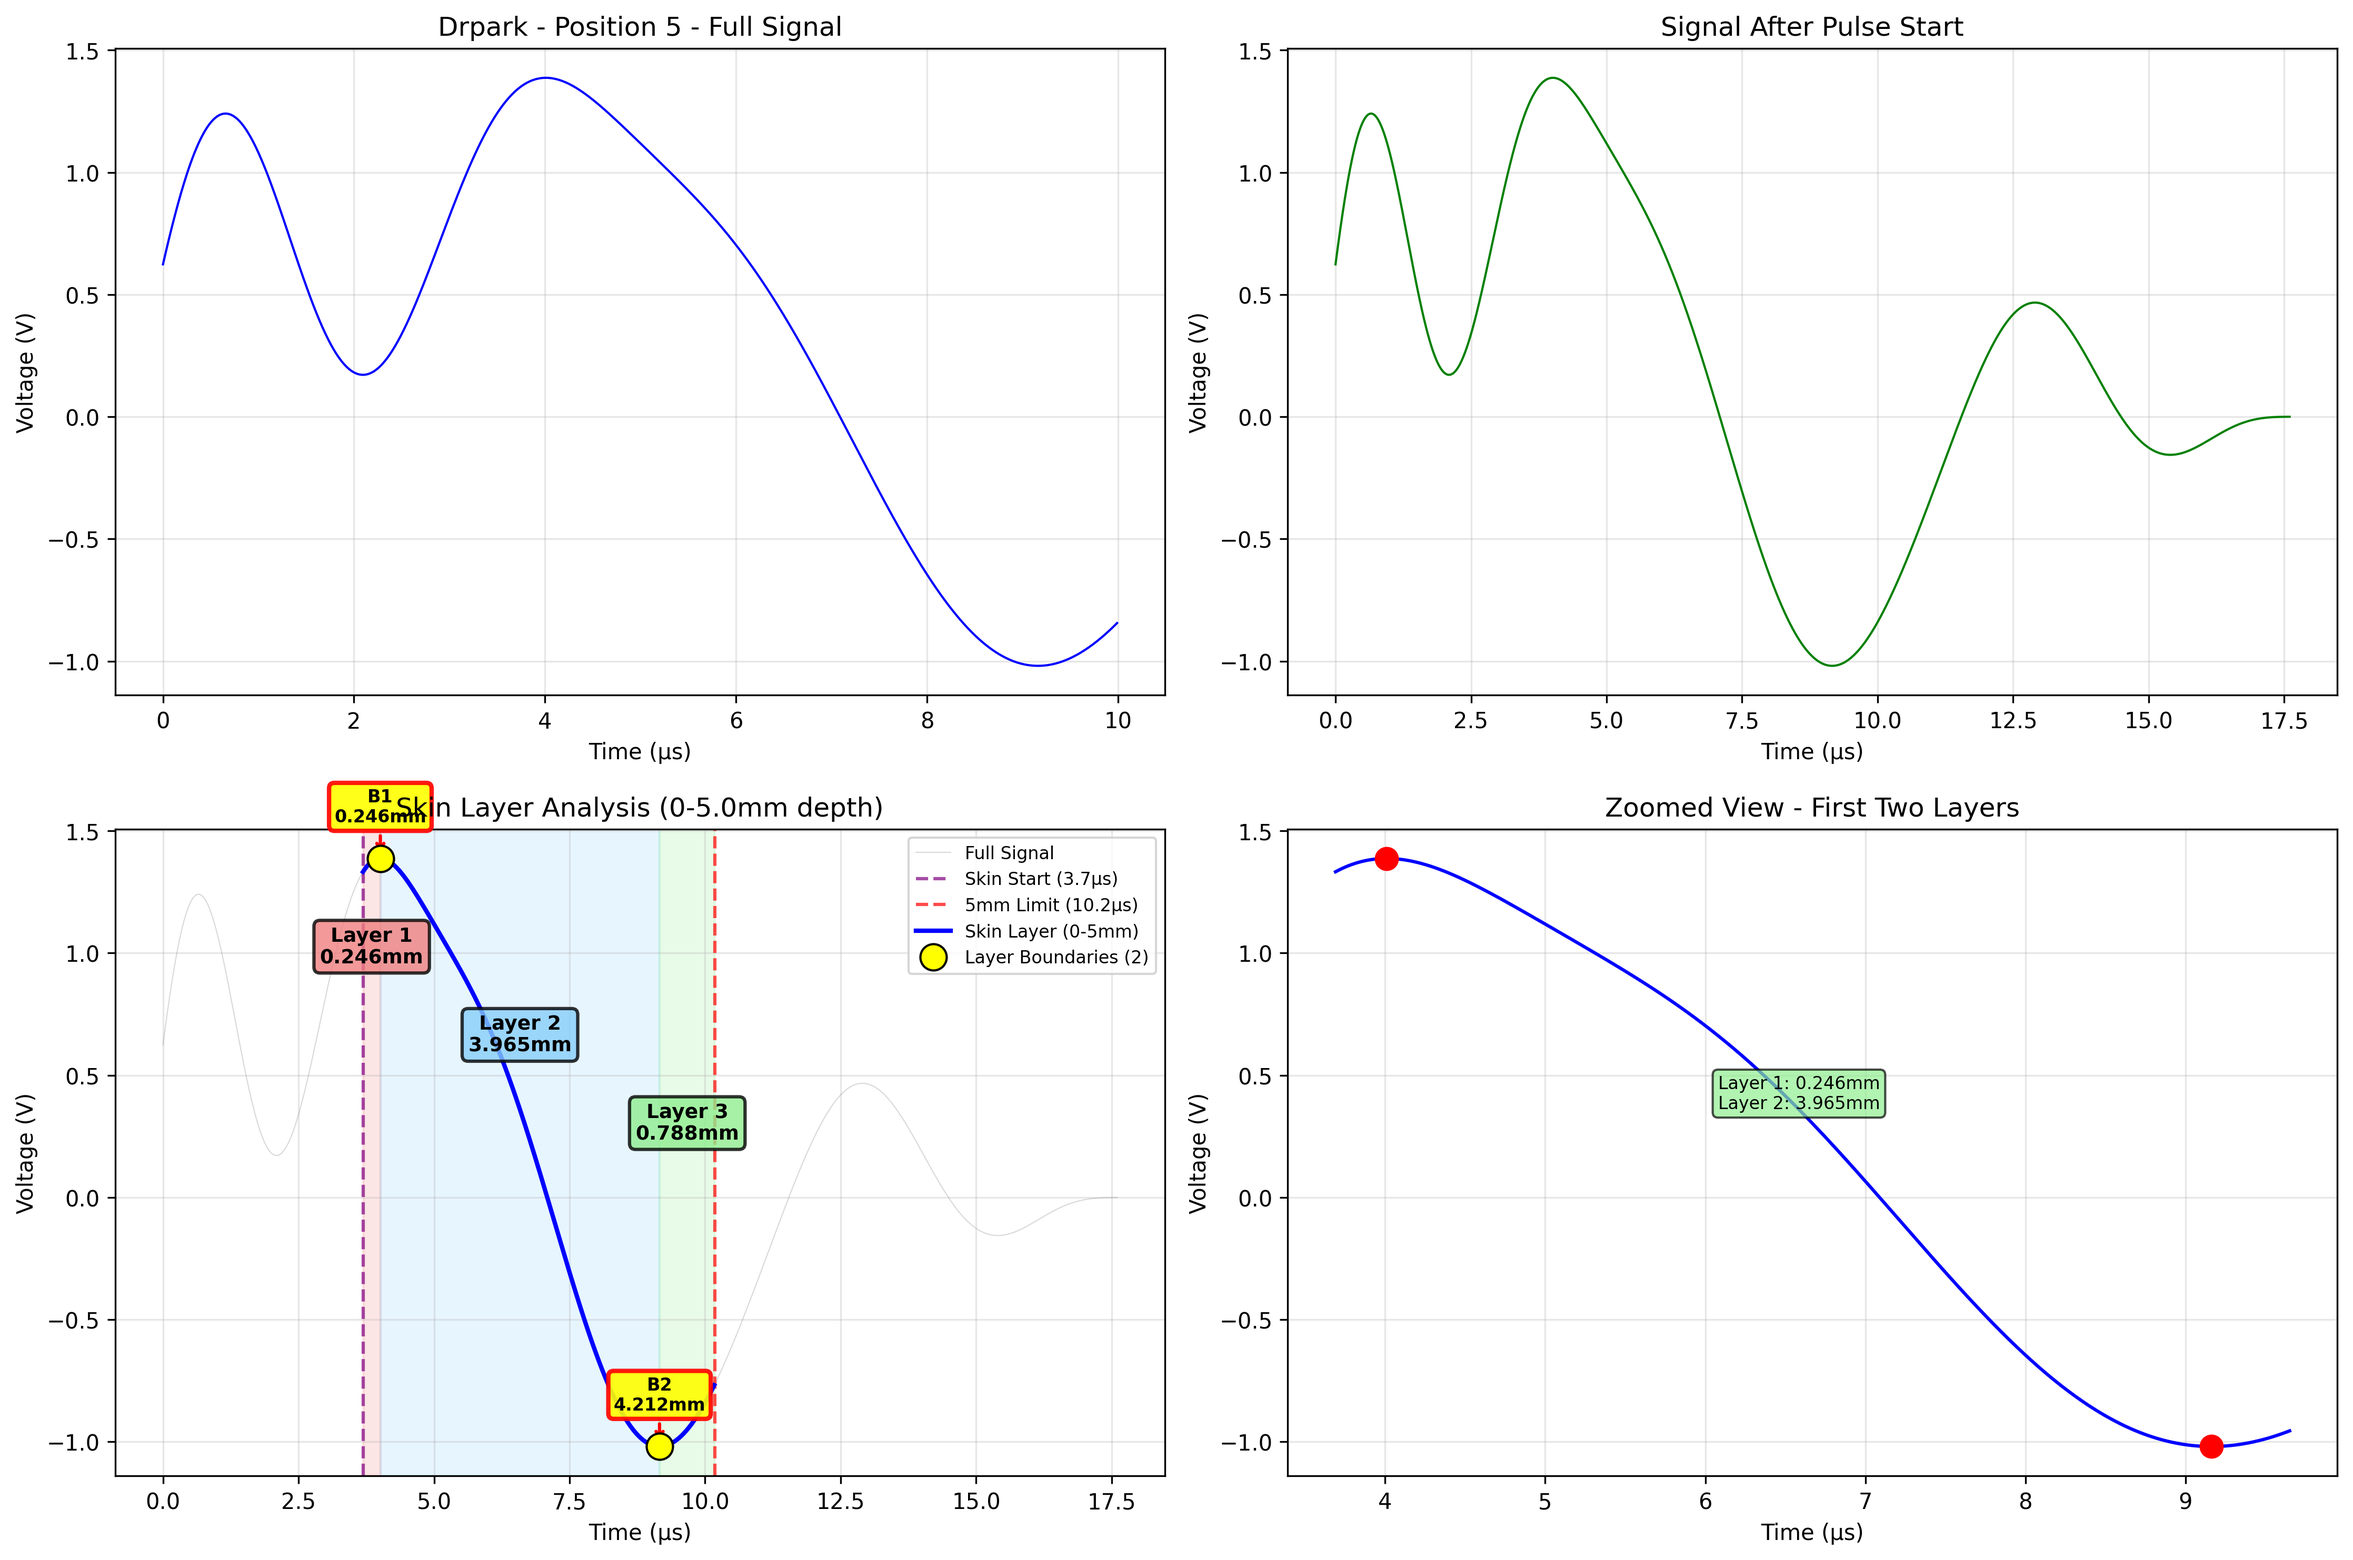
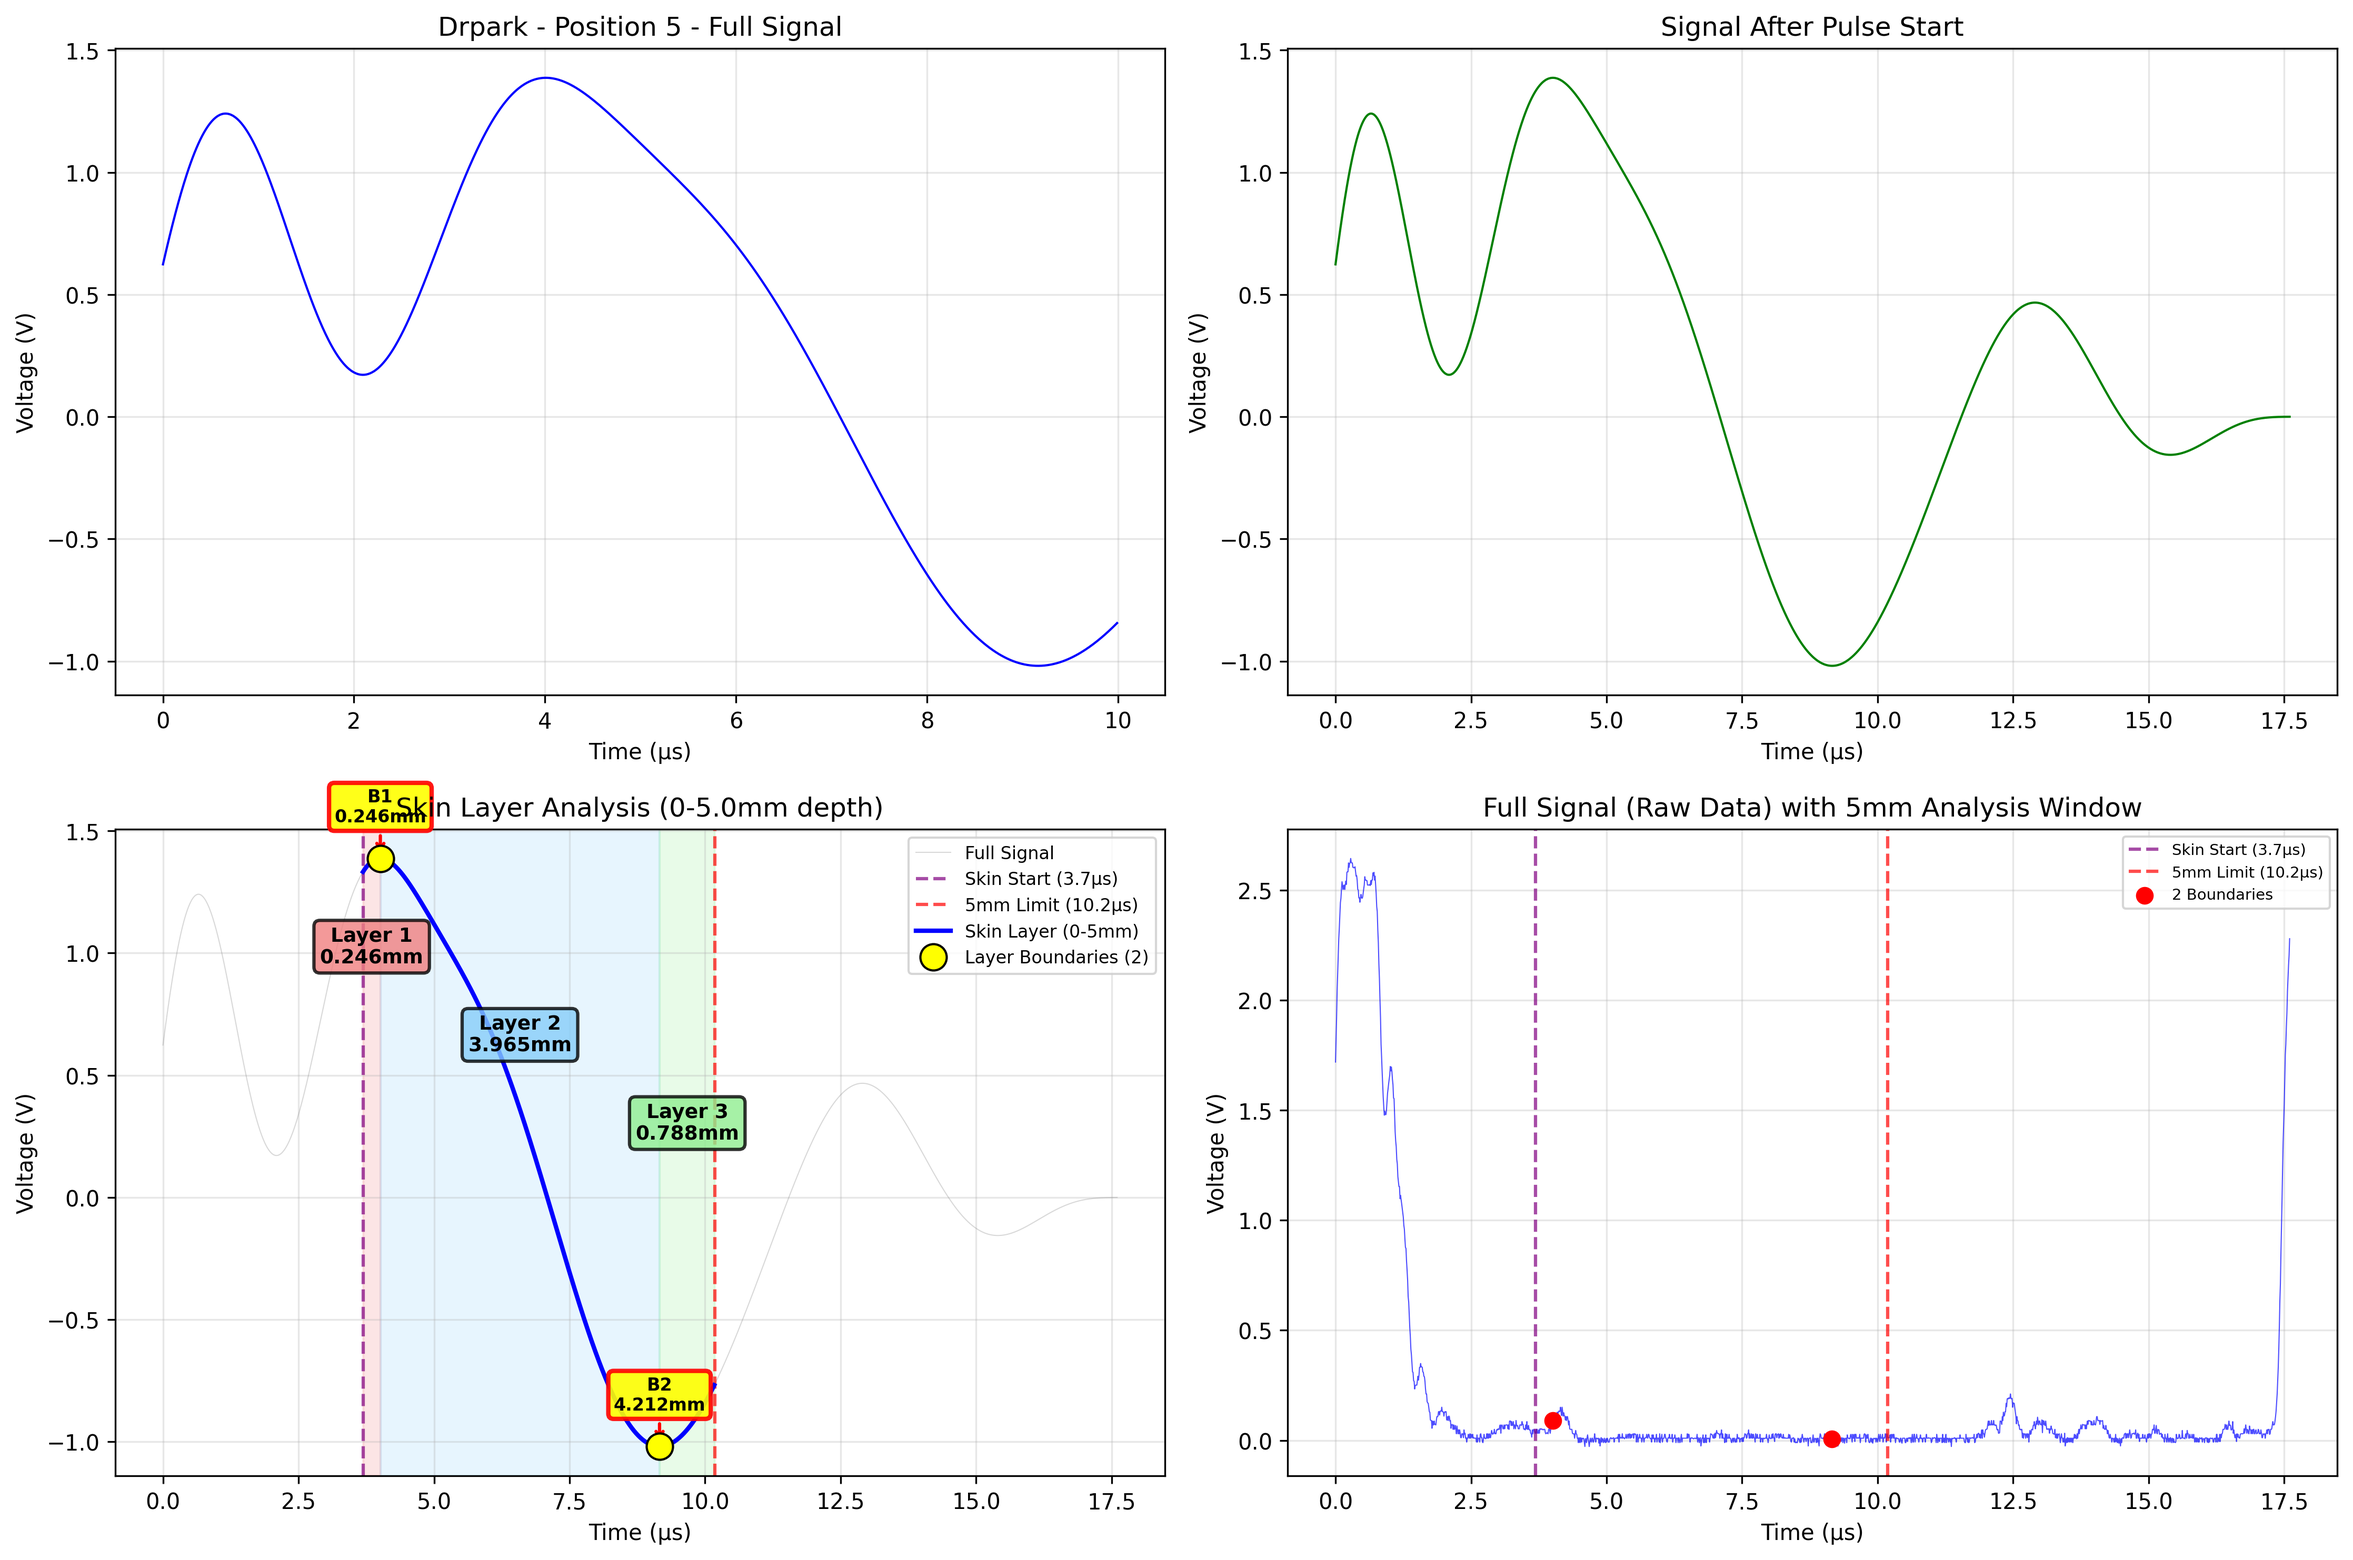
전체 신호 그래프를 원본 데이터로 변경
변경 사항:
- 4번째 그래프를 필터링된 신호에서 원본 신호(Raw Data)로 변경
- 스무스하지 않은 실제 측정 신호를 표시
- 5mm 분석 윈도우 경계선 유지
- 피크 위치를 원본 데이터에 매핑하여 표시

개선 효과:
- 실제 측정된 신호의 노이즈와 변동성을 확인 가능
- 필터링 전후 신호 비교 가능
- 데이터의 원본 품질 평가에 유용

🤖 Generated with [Claude Code](https://claude.com/claude-code)

diff --git a/analyze_all_patients.py b/analyze_all_patients.py
@@ -170,6 +170,7 @@ def analyze_single_file(file_path: str, patient_id: str, position: int) -> Dict:
             'num_layers': len(layers),
             'layers': layers,
             'time_data': analysis_time,
+            'voltage_data': analysis_voltage,  # 원본 전압 데이터 추가
             'filtered_data': filtered_data,
             'skin_analysis_time': skin_analysis_time,
             'skin_filtered_data': skin_filtered_data,
@@ -189,6 +190,7 @@ def visualize_patient_file(result: Dict, save_path: str):
 
     # 기본 데이터 추출
     time_data = result['time_data']
+    voltage_data = result['voltage_data']  # 원본 전압 데이터
     filtered_data = result['filtered_data']
     skin_analysis_time = result['skin_analysis_time']
     skin_filtered_data = result['skin_filtered_data']
@@ -293,48 +295,31 @@ def visualize_patient_file(result: Dict, save_path: str):
 
         ax3.legend(loc='upper right', fontsize=8)
 
-    # 전체 신호 상세 보기 (첫 번째 피크 근처 확대)
-    if len(peaks) >= 2:
-        # 첫 두 피크 사이 영역 확대
-        start_idx = max(0, peaks[0] - 50)
-        end_idx = min(len(skin_analysis_time), peaks[1] + 50)
+    # 4. 전체 신호 원본 데이터 (필터링 전, 스무스하지 않은 신호)
+    ax4.plot(time_data, voltage_data, 'b-', linewidth=0.5, alpha=0.7)
 
-        zoomed_time = skin_analysis_time[start_idx:end_idx]
-        zoomed_voltage = skin_filtered_data[start_idx:end_idx]
-        zoomed_peaks = peaks[:2] - start_idx
+    # 5mm 제한선 표시
+    ax4.axvline(x=skin_start_time, color='purple', linestyle='--', alpha=0.7, linewidth=1.5,
+               label=f'Skin Start ({skin_start_time:.1f}μs)')
+    ax4.axvline(x=skin_end_time, color='red', linestyle='--', alpha=0.7, linewidth=1.5,
+               label=f'5mm Limit ({skin_end_time:.1f}μs)')
 
-        ax4.plot(zoomed_time, zoomed_voltage, 'b-', linewidth=1.5)
+    # 피크 위치 표시 (필터링된 데이터에서 찾은 피크를 원본에 표시)
+    if len(peaks) > 0:
+        peaks_time_full = skin_analysis_time[peaks]
+        # 원본 데이터에서 해당 시간의 전압값 찾기
+        peaks_voltage_original = []
+        for peak_time in peaks_time_full:
+            idx = np.argmin(np.abs(time_data - peak_time))
+            peaks_voltage_original.append(voltage_data[idx])
+        ax4.scatter(peaks_time_full, peaks_voltage_original, color='red', s=50, zorder=5,
+                   label=f'{len(peaks)} Boundaries')
 
-        # 피크 표시
-        peak_times_zoom = skin_analysis_time[peaks[:2]]
-        peak_voltages_zoom = skin_filtered_data[peaks[:2]]
-        ax4.scatter(peak_times_zoom, peak_voltages_zoom, color='red', s=100, zorder=5)
-
-        # 두께 표시 (첫 두 피크 사이)
-        if len(result['layers']) >= 2:
-            thickness_1 = result['layers'][0]['thickness_mm']
-            thickness_2 = result['layers'][1]['thickness_mm']
-
-            mid_time = (peak_times_zoom[0] + peak_times_zoom[1]) / 2
-            mid_voltage = (peak_voltages_zoom[0] + peak_voltages_zoom[1]) / 2
-
-            ax4.annotate(f'Layer 1: {thickness_1:.3f}mm\nLayer 2: {thickness_2:.3f}mm',
-                        (mid_time, mid_voltage), xytext=(0, 20),
-                        textcoords='offset points', ha='center',
-                        bbox=dict(boxstyle='round,pad=0.3', facecolor='lightgreen', alpha=0.7),
-                        fontsize=8)
-
-        ax4.set_title('Zoomed View - First Two Layers')
-        ax4.set_xlabel('Time (μs)')
-        ax4.set_ylabel('Voltage (V)')
-        ax4.grid(True, alpha=0.3)
-    else:
-        # 피크가 2개 미만이면 전체 필터링된 신호 표시
-        ax4.plot(time_data[:1000], filtered_data[:1000], 'b-', linewidth=1)
-        ax4.set_title('Filtered Signal Detail')
-        ax4.set_xlabel('Time (μs)')
-        ax4.set_ylabel('Voltage (V)')
-        ax4.grid(True, alpha=0.3)
+    ax4.set_title('Full Signal (Raw Data) with 5mm Analysis Window')
+    ax4.set_xlabel('Time (μs)')
+    ax4.set_ylabel('Voltage (V)')
+    ax4.grid(True, alpha=0.3)
+    ax4.legend(loc='upper right', fontsize=7)
 
     plt.tight_layout()
     plt.savefig(save_path, dpi=300, bbox_inches='tight')
